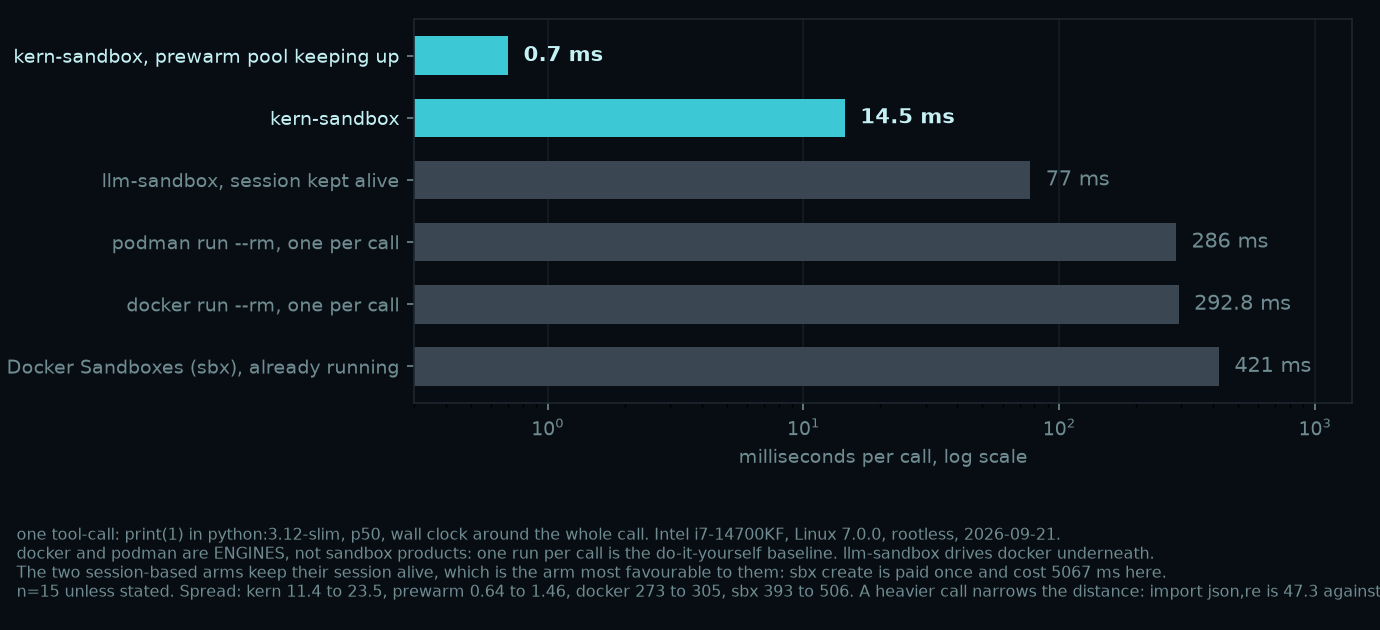
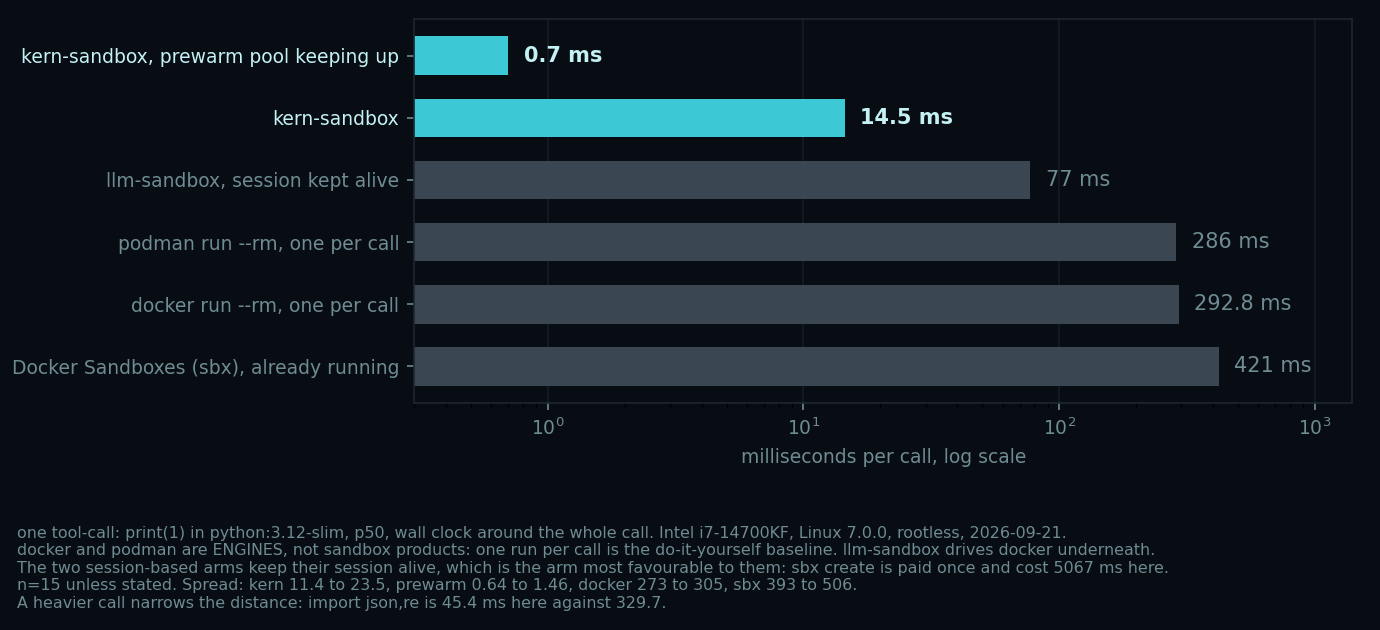
docs(examples): the page named a six-times speedup and did not hand it over
The chart caption says `import json,re` is 45.4 ms on the stock image against
17.7 on a precompiled one. It said where the cost goes and then left the reader
to write the Dockerfile themselves, which is naming a factor of six and keeping
it. `examples/precompiled-image/` is that Dockerfile, two lines, with the build
command and the measurement beside it.

Measured tonight, sixty calls of `import json; print(i)` with a fresh container
each time, after letting the pool fill:

    python:3.12-slim      prewarm=0  45.33 ms   prewarm=8  22.83 ms
    precompiled           prewarm=0  16.49 ms   prewarm=8   7.87 ms

THE POOL IS WORTH TWICE AS MUCH ON THE PRECOMPILED IMAGE and that is the finding
rather than a coincidence. Refilling one pool slot was measured at 74 ms, of
which about 70 is the interpreter starting inside the box and the bulk of that
is the first import, because the stock tag ships 567 `.py` files and no `.pyc`
and a box root is read-only. A slot that refills faster keeps up with a loop the
stock image could not, so the two levers multiply rather than add.

The default does not change, and the reason is already written where that
decision lives: an SDK that silently required an image you have to build would
be worse than one that costs the difference and says so.

The example was RUN as a reader would run it, `kern build` then the snippet: it
prints 4950 with `fault` None.

diff --git a/assets/make-tool-call-chart.py b/assets/make-tool-call-chart.py
@@ -36,7 +36,7 @@ calls against a pool of eight is exactly the regime the bar claims, not a best-o
 ⚠ `print(1)` IS THE WORKLOAD THAT FLATTERS THIS CHART MOST, raised by an outside review and measured
 rather than argued: a call that does some work narrows the distance, because the engines pay their
 start once and then run the same code as everyone else. MEASURED the same night, same arms,
-`import json, re`: **47.3 ms here against 320.8 for docker, which is 7x rather than 20x.** The page
+`import json, re`: **45.4 ms here against 329.7 for docker, which is 7x rather than 20x.** The page
 carries that sentence under the image, because a chart whose workload is chosen by the author and
 not stated is the shape that gets taken apart in a comment thread.
 
@@ -72,7 +72,8 @@ FOOT = ("one tool-call: print(1) in python:3.12-slim, p50, wall clock around the
         "The two session-based arms keep their session alive, which is the arm most favourable to "
         "them: sbx create is paid once and cost 5067 ms here.\n"
         "n=15 unless stated. Spread: kern 11.4 to 23.5, prewarm 0.64 to 1.46, docker 273 to 305, "
-        "sbx 393 to 506. A heavier call narrows the distance: import json,re is 47.3 against 320.8.")
+        "sbx 393 to 506.\n"
+        "A heavier call narrows the distance: import json,re is 45.4 ms here against 329.7.")
 
 
 def main() -> int:

diff --git a/examples/precompiled-image/README.md b/examples/precompiled-image/README.md
@@ -1,0 +1,36 @@
+# A precompiled Python image
+
+Two lines that are worth about six times the call rate, and the reason is not kern.
+
+`python:3.12-slim` ships **567 `.py` files** of standard library and **no `.pyc`**. A box mounts its
+root read-only, so every box recompiles from source whatever it imports. That cost is paid at every
+call, and it is also what limits the prewarm pool: refilling one slot was measured at 74 ms, of
+which about 70 is the interpreter starting inside the box.
+
+```sh
+kern build -t kern-py-precompiled .
+```
+
+```python
+import kern_sandbox as kern
+
+with kern.Sandbox(image="kern-py-precompiled", prewarm=8) as s:
+    print(s.run_code("import json; print(sum(range(100)))").stdout)
+```
+
+## What it is worth
+
+Measured 2026-09-22 on an Intel i7-14700KF, Linux 7.0.0, with kern 0.20.0 and `kern-sandbox` 0.2.34.
+Sixty calls of `import json; print(i)`, a **fresh container each time**, after letting the pool fill:
+
+| image | `prewarm=0` | `prewarm=8` |
+|---|---:|---:|
+| `python:3.12-slim` | 45.33 ms | 22.83 ms |
+| this one | 16.49 ms | **7.87 ms** |
+
+The pool is worth twice as much here, and that is the point rather than a coincidence: a slot that
+refills faster keeps up with a loop that the stock image could not.
+
+**Why this is not the default.** An SDK that silently required an image you have to build would be
+worse than one that costs the difference and says so. The default stays the stock tag, and this is
+here so the choice is one command rather than a paragraph you have to act on yourself.

diff --git a/bindings/python/README.md b/bindings/python/README.md
@@ -130,7 +130,7 @@ Two that have surprised people, both measured:
 the rest CPython starting. The 0.7 ms bar is a prewarm burst that falls back to 14.5 when the pool
 cannot keep up. `print(1)` flatters everyone: `import json,re` reads 45.4 ms against docker's 329.7,
 7x rather than 20x, and that 45 is the stock image compiling its standard library, not the box, against
-17.7 ms on a precompiled one
+17.7 ms on a [precompiled one](https://github.com/getkern/kern/tree/main/examples/precompiled-image)
 ([BENCHMARKS.md](https://github.com/getkern/kern/blob/main/BENCHMARKS.md)). Measure your own, p50.</sub>
 
 ## Compared to what you are probably doing
